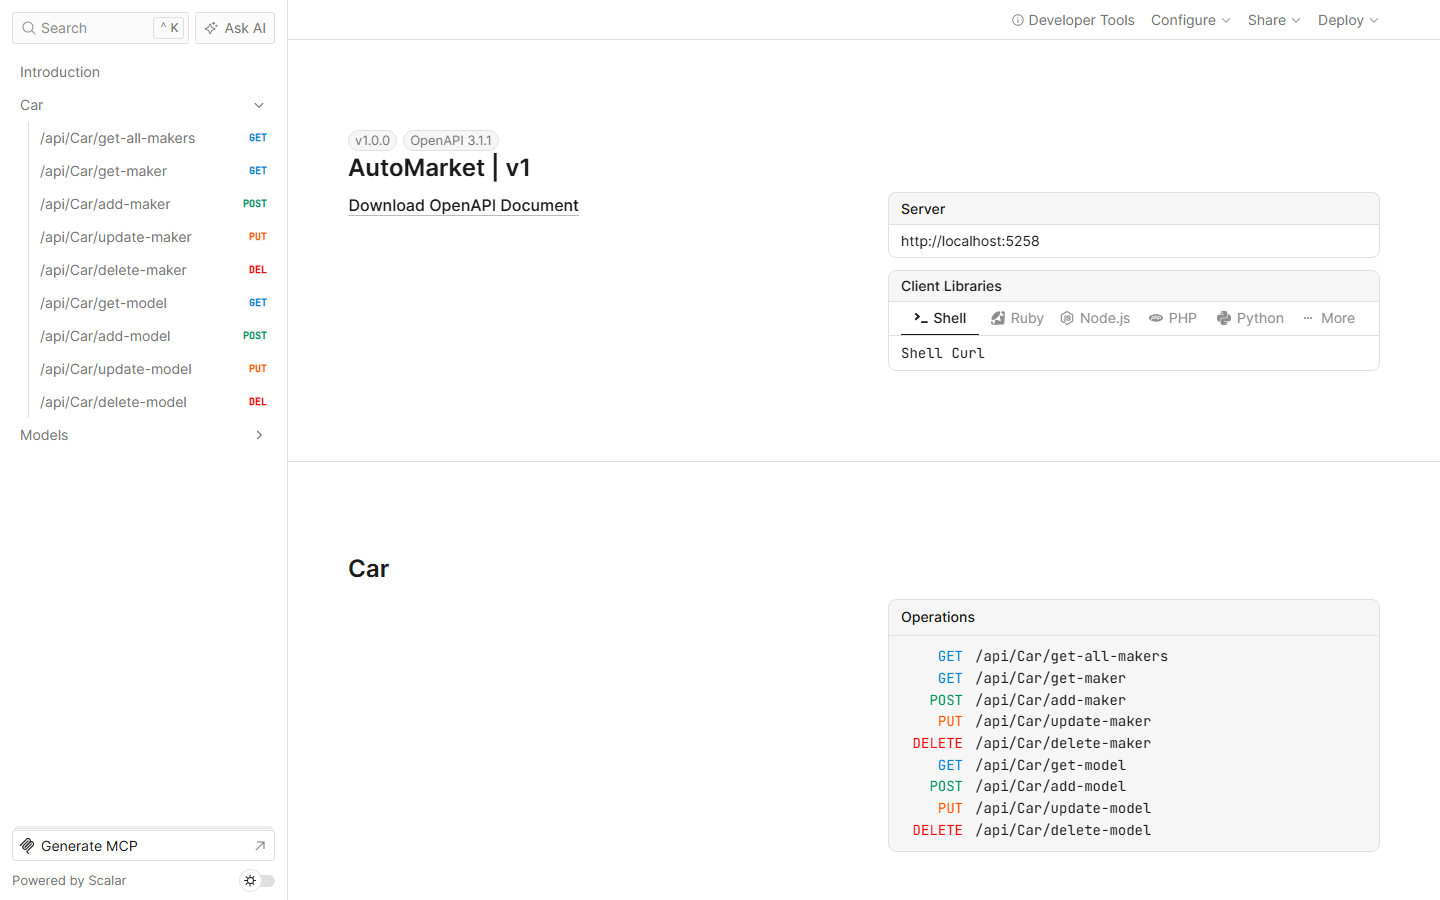
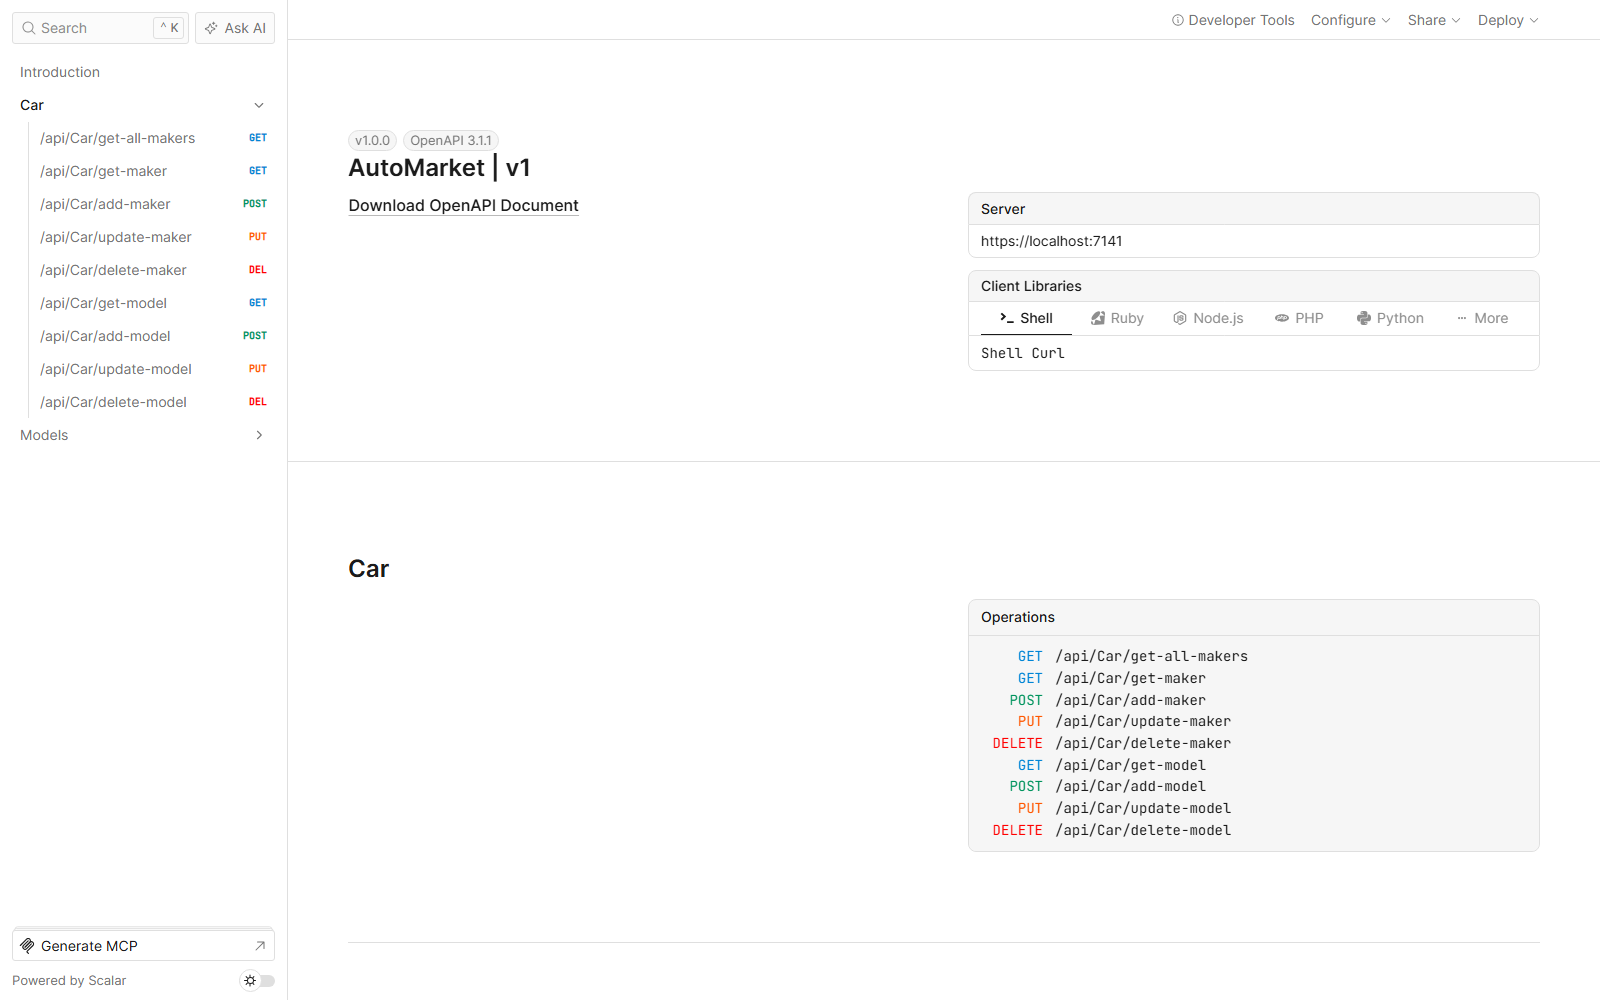
Убрать длинное тире из README и интерфейса, обновить скриншоты

diff --git a/web/src/app/app.routes.ts b/web/src/app/app.routes.ts
@@ -9,16 +9,16 @@ import { ModelAddComponent } from "./components/ui/model-add/model-add.component
 import { ModelEditComponent } from "./components/ui/model-edit/model-edit.component";
 
 export const routes: Routes = [
-  { path: "maker-page", component: MakerPageComponent, title: "Производители — AutoMarket" },
-  { path: "model-page", component: ModelPageComponent, title: "Модели — AutoMarket" },
-  { path: "compare-page", component: ComparePageComponent, title: "Сравнение — AutoMarket" },
-  { path: "home-page", component: HomePageComponent, title: "О проекте — AutoMarket" },
+  { path: "maker-page", component: MakerPageComponent, title: "Производители - AutoMarket" },
+  { path: "model-page", component: ModelPageComponent, title: "Модели - AutoMarket" },
+  { path: "compare-page", component: ComparePageComponent, title: "Сравнение - AutoMarket" },
+  { path: "home-page", component: HomePageComponent, title: "О проекте - AutoMarket" },
 
-  { path: "maker-add", component: MakerAddComponent, title: "Новый производитель — AutoMarket" },
-  { path: "maker-edit/:id", component: MakerEditComponent, title: "Редактирование производителя — AutoMarket" },
+  { path: "maker-add", component: MakerAddComponent, title: "Новый производитель - AutoMarket" },
+  { path: "maker-edit/:id", component: MakerEditComponent, title: "Редактирование производителя - AutoMarket" },
 
-  { path: "model-add/:makerId", component: ModelAddComponent, title: "Новая модель — AutoMarket" },
-  { path: "model-edit/:modelId", component: ModelEditComponent, title: "Редактирование модели — AutoMarket" },
+  { path: "model-add/:makerId", component: ModelAddComponent, title: "Новая модель - AutoMarket" },
+  { path: "model-edit/:modelId", component: ModelEditComponent, title: "Редактирование модели - AutoMarket" },
 
   { path: "", redirectTo: "/maker-page", pathMatch: "full" },
   { path: "**", redirectTo: "/maker-page" },

diff --git a/web/src/app/components/pages/compare-page/compare-page.component.ts b/web/src/app/components/pages/compare-page/compare-page.component.ts
@@ -115,7 +115,7 @@ export class ComparePageComponent {
         label: "Новейшая модель",
         hint: "свежее",
         cells: stats.map((s, i) => ({
-          text: s.newest ? String(s.newest.releaseYear) : "—",
+          text: s.newest ? String(s.newest.releaseYear) : "-",
           sub: s.newest?.name,
           best: newestBest[i],
         })),
@@ -123,7 +123,7 @@ export class ComparePageComponent {
       {
         label: "Первая модель в каталоге",
         cells: stats.map((s) => ({
-          text: s.oldest ? String(s.oldest.releaseYear) : "—",
+          text: s.oldest ? String(s.oldest.releaseYear) : "-",
           sub: s.oldest?.name,
           best: false,
         })),
@@ -131,7 +131,7 @@ export class ComparePageComponent {
       {
         label: "Средний год выпуска",
         hint: "свежее",
-        cells: stats.map((s, i) => ({ text: s.avg ? String(s.avg) : "—", best: avgBest[i] })),
+        cells: stats.map((s, i) => ({ text: s.avg ? String(s.avg) : "-", best: avgBest[i] })),
       },
       {
         label: "Моделей за последние 3 года",

diff --git a/web/src/app/components/pages/home-page/home-page.component.html b/web/src/app/components/pages/home-page/home-page.component.html
@@ -3,7 +3,7 @@
     <span class="eyebrow">О проекте</span>
     <h1>Каталог автопроизводителей и их модельных рядов</h1>
     <p>
-      AutoMarket — учебный full-stack проект: REST API на ASP.NET Core с PostgreSQL
+      AutoMarket - учебный full-stack проект: REST API на ASP.NET Core с PostgreSQL
       и Angular-клиент поверх него. Производители, модели, фильтры по регионам,
       поиск и полный CRUD без перезагрузки страницы.
     </p>
@@ -27,7 +27,7 @@
       <span>Стран</span>
     </div>
     <div class="stat">
-      <strong>{{ oldest() ?? "—" }}</strong>
+      <strong>{{ oldest() ?? "-" }}</strong>
       <span>Самый ранний год</span>
     </div>
   </div>

diff --git a/web/src/app/components/pages/compare-page/compare-page.component.html b/web/src/app/components/pages/compare-page/compare-page.component.html
@@ -28,9 +28,9 @@
   <div class="picker-head">
     <strong>Выберите до {{ store.compareLimit }} производителей</strong>
     @if (limitHit()) {
-      <span class="limit">Уже выбрано {{ store.compareLimit }} — уберите одного, чтобы добавить другого</span>
+      <span class="limit">Уже выбрано {{ store.compareLimit }} - уберите одного, чтобы добавить другого</span>
     } @else {
-      <span>Клик по названию добавляет в сравнение, повторный — убирает</span>
+      <span>Клик по названию добавляет в сравнение, повторный - убирает</span>
     }
   </div>
 

diff --git a/web/src/app/components/ui/maker-list/maker-list.component.html b/web/src/app/components/ui/maker-list/maker-list.component.html
@@ -14,7 +14,7 @@
   <div class="card state">
     @if (store.makers().length === 0) {
       <strong>Пока нет ни одного производителя</strong>
-      <span>Добавьте первого — и здесь появится карточка с его моделями.</span>
+      <span>Добавьте первого - и здесь появится карточка с его моделями.</span>
       <a class="btn btn-primary" routerLink="/maker-add">+ Добавить производителя</a>
     } @else {
       <strong>Ничего не найдено</strong>

diff --git a/web/src/app/components/ui/header/header.component.html b/web/src/app/components/ui/header/header.component.html
@@ -1,6 +1,6 @@
 <header class="app-header">
   <div class="container app-header__inner">
-    <a class="brand" routerLink="/maker-page" aria-label="AutoMarket — на главную">
+    <a class="brand" routerLink="/maker-page" aria-label="AutoMarket - на главную">
       <span class="brand__logo" aria-hidden="true">
         <svg viewBox="0 0 24 24" fill="none" stroke="currentColor" stroke-width="2" stroke-linecap="round" stroke-linejoin="round">
           <path d="M3.5 12.5 5.2 7.4A2 2 0 0 1 7.1 6h9.8a2 2 0 0 1 1.9 1.4l1.7 5.1" />

diff --git a/web/src/index.html b/web/src/index.html
@@ -2,7 +2,7 @@
 <html lang="ru">
 <head>
   <meta charset="utf-8">
-  <title>AutoMarket — каталог производителей и моделей</title>
+  <title>AutoMarket - каталог производителей и моделей</title>
   <base href="/">
   <meta name="viewport" content="width=device-width, initial-scale=1">
   <meta name="theme-color" content="#f4f5fb">

diff --git a/web/src/app/services/CatalogStore.ts b/web/src/app/services/CatalogStore.ts
@@ -103,7 +103,7 @@ export class CatalogStore {
     try {
       localStorage.setItem("automarket.compare", JSON.stringify(ids));
     } catch {
-      /* storage unavailable — comparison just won't survive a reload */
+      /* storage unavailable - comparison just won't survive a reload */
     }
   }
 

diff --git a/web/src/app/utils/country.ts b/web/src/app/utils/country.ts
@@ -60,7 +60,7 @@ export function countryInfo(country: string | null | undefined): CountryInfo {
     .toUpperCase();
 
   return {
-    code: fallback || "—",
+    code: fallback || "-",
     region: "other",
     tone: hash(normalized) % TONES,
   };

diff --git a/README.md b/README.md
@@ -9,7 +9,7 @@
 - Карточки производителей: страна, год основания, число моделей, превью модельного ряда
 - Раскрытие моделей прямо в карточке, редактирование и удаление в один клик
 - Отдельная таблица всех моделей с сортировкой по названию, году и производителю
-- Сравнение до четырёх производителей бок о бок: страна, год основания, размер модельного ряда, новейшая модель, средний год выпуска — лучшие значения подсвечены
+- Сравнение до четырёх производителей бок о бок по стране, году основания, размеру модельного ряда, новейшей модели и среднему году выпуска: лучшие значения подсвечиваются
 - Мгновенный поиск по производителям и моделям, фильтр по регионам, сортировка по году основания
 - CRUD производителей и моделей с валидацией на клиенте и на API
 - Единая обёртка ответов API и документация на Scalar с отправкой запросов из браузера
@@ -33,7 +33,7 @@
 docker run -d --name automarket-pg -e POSTGRES_USER=postgres -e POSTGRES_PASSWORD=postgres -e POSTGRES_DB=AutoMarketDb -p 5432:5432 postgres:16-alpine
 ```
 
-**API** (`/api/AutoMarket/AutoMarket`) — строка подключения в `appsettings.Development.json` (создайте сами, в репозитории её нет):
+**API** (`/api/AutoMarket/AutoMarket`). Строка подключения задаётся в `appsettings.Development.json` (создайте сами, в репозитории её нет):
 
 ```json
 {
@@ -49,7 +49,7 @@ dotnet ef database update
 dotnet run --launch-profile https
 ```
 
-API поднимется на `https://localhost:7141`, документация — на `/scalar/v1`.
+API поднимется на `https://localhost:7141`, документация на `/scalar/v1`.
 
 ![API reference](docs/screenshots/05-api-reference.png)
 
@@ -61,17 +61,17 @@ yarn install
 yarn start
 ```
 
-Клиент — на `http://localhost:4200`, API-адрес задан в `src/environments/environment.ts`.
+Клиент поднимается на `http://localhost:4200`, API-адрес задан в `src/environments/environment.ts`.
 
 ![Форма производителя](docs/screenshots/04-maker-form.png)
 
 ## Как устроен клиент
 
-- `CatalogStore` — единый источник данных: один запрос к API, signals для списка, поиска и счётчиков; после каждой мутации список перечитывается
+- `CatalogStore`: единый источник данных, один запрос к API, signals для списка, поиска и счётчиков; после каждой мутации список перечитывается
 - Страницы: производители (карточки), модели (таблица), сравнение, о проекте; формы добавления и редактирования вынесены в отдельные маршруты
 - Выбор для сравнения хранится в `CatalogStore` и дублируется в `localStorage`, поэтому переживает перезагрузку страницы
 - Регион и код страны для аватара вычисляются на клиенте по названию страны (`utils/country.ts`)
 
 ## Статус
 
-Рабочий: оба проекта собираются и запускаются, CRUD проверен через Scalar, curl и сам интерфейс — создание, чтение, обновление, удаление производителей и моделей. Клиент дополнительно прогнан headless-сценарием в Chromium: рендер списков, фильтры, поиск, раскрытие карточки, валидация формы, мобильная вёрстка без горизонтального скролла.
+Рабочий: оба проекта собираются и запускаются, CRUD проверен через Scalar, curl и сам интерфейс (создание, чтение, обновление, удаление производителей и моделей). Клиент дополнительно прогнан headless-сценарием в Chromium: рендер списков, фильтры, поиск, раскрытие карточки, валидация формы, мобильная вёрстка без горизонтального скролла.
